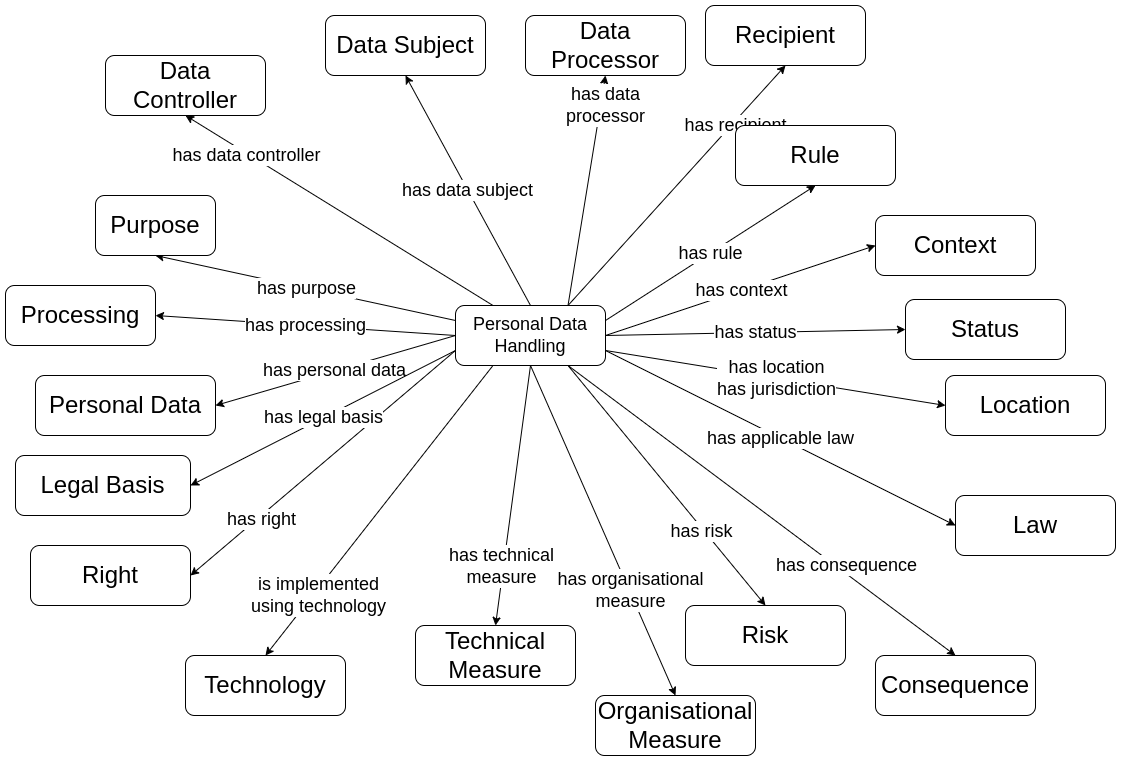
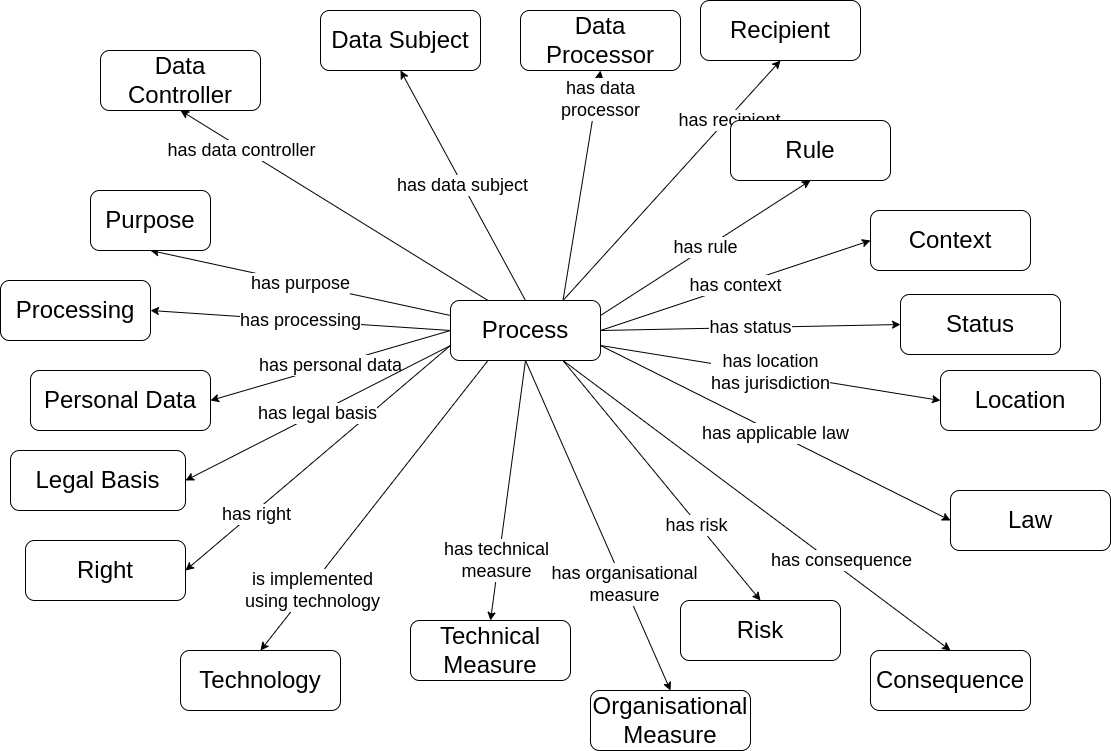
contributions by Julian Flake (@nuthub) for Primer
submitted as PR: closes #156 ; used merge --squash

Squashed commit of the following:

commit d72ca61455741bde399efb7859f8735162e67c7a
Author: Julian Flake <flake@uni-koblenz.de>
Date:   Tue Jun 4 09:23:54 2024 +0200

    PersonalDataHandling / Process fixes (#154)

commit a3f6c485413eb729a8fe4f554e224ad17107d16f
Author: Julian Flake <flake@uni-koblenz.de>
Date:   Tue Jun 4 09:17:27 2024 +0200

    Fix Figure 4 (base concepts) PersonalDataHandling -> Process

commit 59f9c4fa4e988277433fb7dac25d3d952de71e6e
Author: Julian Flake <flake@uni-koblenz.de>
Date:   Tue Jun 4 09:14:38 2024 +0200

    Link to concise version removed.

    Link to concise version removed (in jinja file)

diff --git a/primer/index.html b/primer/index.html
@@ -359,7 +359,6 @@
       <li>Self-contained examples that illustrate how the concepts and data models provided by DPV can represent information associated with processing of personal data and use of technologies; and</li>
       <li>Guidance towards application of DPV in use-cases and technologies.</li>
     </ul>
-    <p>A shorter 2-page <a href="https://w3id.org/dpv/primer/concise"><i>Concise Primer</i></a> is also available for a quick introduction to the DPV.</p>
     <section id="sotd">
     <p style="color: red; font-weight: bold;">The DPVCG is currently updating the specifications to v2. This document is a draft and may change as part of this process.</p>
     <p><strong>Contributing:</strong> The DPVCG welcomes participation to improve the DPV and associated resources, including expansion or refinement of concepts, requesting information and applications, and addressing open issues. <a href="https://github.com/w3c/dpv/blob/master/contributing.md">See contributing page</a> for further information.</p>
@@ -846,7 +845,7 @@ exA:TVServiceOptimisation skos:closeMatch exB:TVServiceOptimisation .
     <p>In legal terminology, it is common to refer to all information about how personal data is being processed using the colloquial term <i>processing</i>. This results in confusion between the use of <i>processing</i> as a concept referring to all information (i.e. purposes, personal data, collection, storage, etc.), and <code>processing</code> as a concept referring to (only) the specific actions or operations (e.g. collect, use).</p>
     <p>To avoid this ambiguity and enable clarity of information, DPV defines a new concept called <code>Process</code> for representing how the <a href="#core-concepts">core concepts</a> are combined and applied for a particular use-case. The association of a concept to <code>Process</code> is made using the relationships or properties provided for each concept. For example, to indicate a <code>Process</code> includes personal data, the relationship <code>hasPersonalData</code> is used along with the concept <code>PersonalData</code>.</p>
     <aside class="note" title="Process from DPV v2 is a replacement for PersonalDataHandling from DPV v1">
-      <p>In DPV v1, the concept <code>Process</code> was defined to represent the combination of core concepts. In DPV v2, this role is fulfilled by <code>Process</code> which is a term more closely aligned with practical uses and the vocabulary used by various entities e.g. business process. For backwards compatibility, <code>Process</code> is defined as a subclass or subtype of <code>Process</code>.</p>
+      <p>In DPV v1, the concept <code>PersonalDataHandling</code> was defined to represent the combination of core concepts. In DPV v2, this role is fulfilled by <code>Process</code> which is a term more closely aligned with practical uses and the vocabulary used by various entities e.g. business process. For backwards compatibility, <code>PersonalDataHandling</code> is defined as a subclass or subtype of <code>Process</code>.</p>
     </aside>
 <aside class="example" title="Process used to combine core concepts and represent an use-case">
     <p>An example of how <code>Process</code> brings together the core concepts, consider the example where <code>Acme</code> is a <code>DataController</code> that <code>Collect</code>(s) and <code>Use</code>(s) <code>Email</code> for <code>ServiceProvision</code>. Note that the <code>pd:EmailAddress</code> is a concept from the [[[PD]]] extension.</p>
